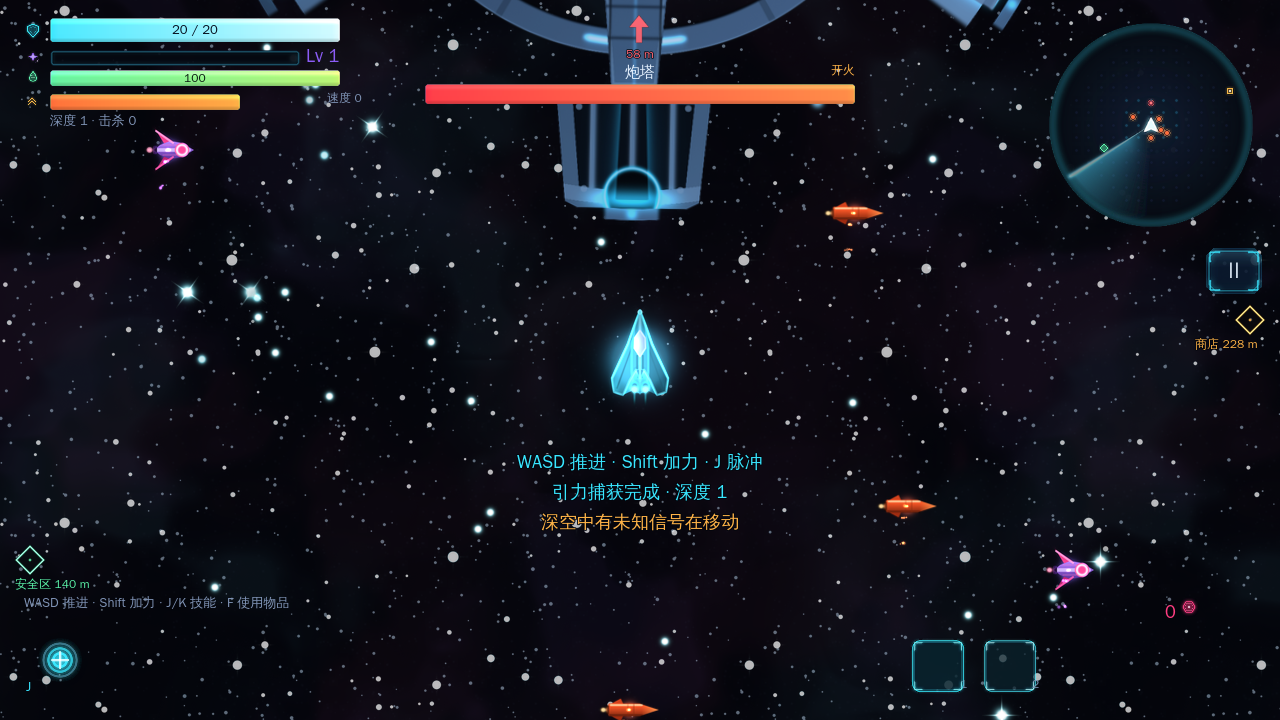
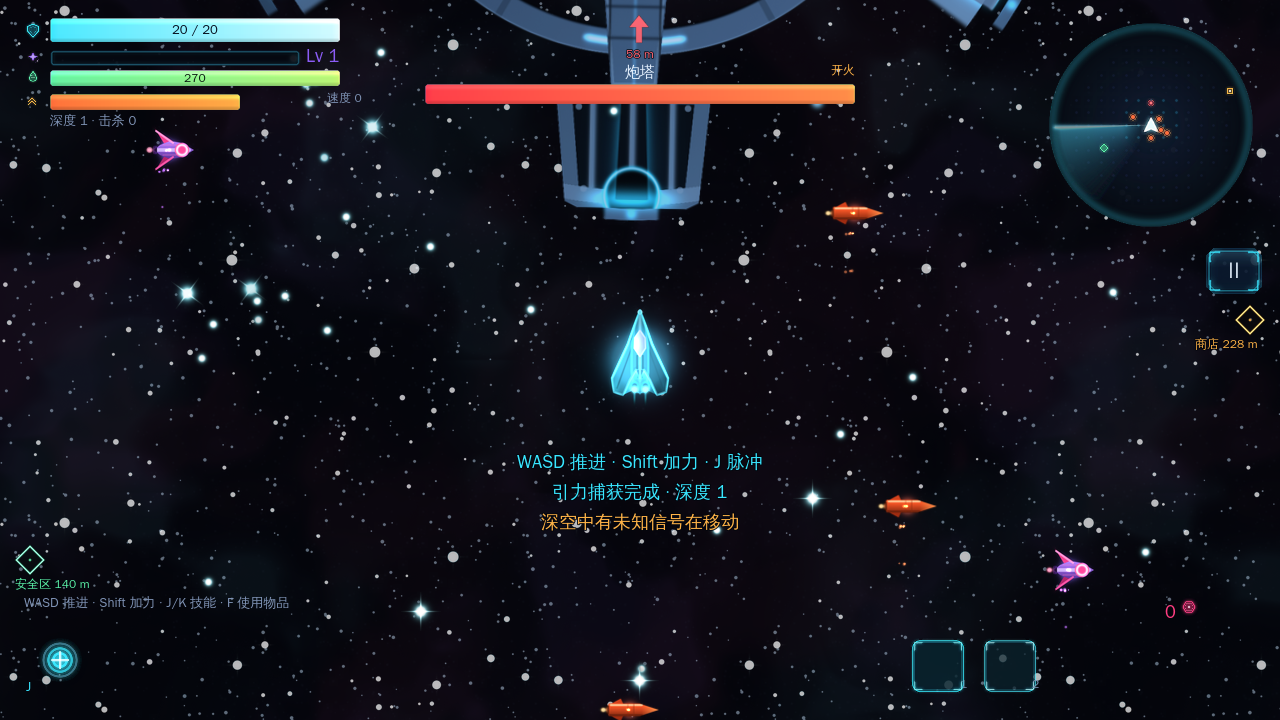
docs(1.4.0): 同步燃料槽 270 的数值表、QA、自测输出与截图

diff --git a/docs/QA.md b/docs/QA.md
@@ -26,7 +26,7 @@ RESULT: 258 checks, 0 failed
 
 覆盖面：
 
-- 物理：太空无阻力（松开推进 2 秒仍保持速度）、引擎极速 150（超过后推进不把惯性压回）、加力 3× 推力 / 192 极速、燃料按实际 Δv 计（到极速后按住推进不耗油，滑行免费）、燃料槽 100（1.4.0 由 500 收紧）、加力槽 6.6s 与 0.7s 后回充（推进中同样回充，耗尽需先松开）、碰撞半径 40 / 12 / 护盾 20
+- 物理：太空无阻力（松开推进 2 秒仍保持速度）、引擎极速 150（超过后推进不把惯性压回）、加力 3× 推力 / 192 极速、燃料按实际 Δv 计（到极速后按住推进不耗油，滑行免费）、燃料槽 270（1.4.0 由 500 收紧后定为 270）、加力槽 6.6s 与 0.7s 后回充（推进中同样回充，耗尽需先松开）、碰撞半径 40 / 12 / 护盾 20
 - 环绕加速：1.9R 切线进入行星引力圈，20 秒内峰值速度 >250、离开后仍 >180；深空滑行 300 速度 2 秒不衰减、不耗油
 - 安全区停靠：以 600 速度进入 R78 触发圈，扩张到 R280 后辅助装置刹停，最终速度 <20 且仍在圈内；以 650 切向掠过也会被捕获井吸进圈内
 - 引力：表面 285、内圈 395、3R 截止、辅助操作装置平衡恒星引力、锁定中的导弹仍受引力弯折（0.6×）
@@ -88,7 +88,7 @@ xvfb-run -a -s "-screen 0 1280x720x24" \
 - 1.4.0 导出后在 Xvfb + llvmpipe 下真实运行，退出码 0；**13 张桌面截图**全部由导出包渲染产生（含 `13_aegis` 偏导母舰正面护盾与 `14_twin` 双子中继站 + 超载水雷），已复制到 `docs/shots/`。
 - 导出包内自测：`./build/linux/EscapeGravity.x86_64 --headless -- --selftest` → `RESULT: 258 checks, 0 failed`。
 - 标题、中文字体、贴图、音频、脚本均从内嵌 PCK 加载；无缺失贴图警告。
-- `build/linux/EscapeGravity.x86_64` = 97,747,000 bytes，ELF x86-64（1.4.0 导出）。
+- `build/linux/EscapeGravity.x86_64` = 97,747,016 bytes，ELF x86-64（1.4.0 导出）。
 - 触屏 20:9 截图另用 `--resolution 2400x1080 -- --touch --shots=...` 生成，取 `04_battle` 作为 `docs/shots/12_touch.png`；触屏按钮仍按“加力 → 技能 → 物品栏”纵向排列，HUD 的改装芯片行在左上角条组下方，不与摇杆/按钮重叠。
 
 ### 2.2 Windows（1.4.0 本地导出验证）

diff --git a/AGENTS.md b/AGENTS.md
@@ -126,7 +126,7 @@ escape-gravity-release/
 - **升级池（1.3.0）**：`fuel_25` 已删除，换成 `eco_cruise`（油耗 ×0.88，叠到 0.5 为止，`ship.fuel_cost_mult` 同步）；燃料上限卡 +40/+80；`slot` 权重背包满 11 / 未满 6；满油时不再出燃料卡这条语义由“删除燃料卡”取代。**别再往池子里加回 `fuel_25`**。
 - **商店三货架（1.3.0）**：`_roll_shop` 固定 3 行——补给位 1~2 代币（护盾补片/备用能源/现场满额维修）、战术道具位 3~4（干扰弹/诱饵弹/紧急充能/引力水雷/加力灌注）、黑市 5~7（必出改装或觉醒）。offer 字典用 `kind`（item/service/mod/awaken）+ `title/desc/rarity/icon/shelf`，`ui._make_shop_row` 只读这些字段。背包满时购买**不再拒买**，直接进入 `State.DESTROY` 丢弃替换，替换后回到商店面板（`destroy_and_take` 里判断 `shop_inside`）。
 
-- **平衡**：初始燃料 **100**（1.4.0 由 500 收紧）；每级经验 **100**（1.4.0 由 20 ×5）；推进 4/s、加力 **4.8/s（1.2×）**（均按实际 Δv），3× 推力，引擎极速 150 / 加力 192，初始槽 **6.6s**；护盾 20。
+- **平衡**：初始燃料 **270**（1.4.0 由 500 收紧后定为 270）；每级经验 **100**（1.4.0 由 20 ×5）；推进 4/s、加力 **4.8/s（1.2×）**（均按实际 Δv），3× 推力，引擎极速 150 / 加力 192，初始槽 **6.6s**；护盾 20。
 - **状态机**：`PLAYING / LEVELUP / SHOP / DESTROY / DEAD / REPLACE_SKILL / AWAKEN_CHOICE`；暂停由 `main.gd` 控制，`run.paused` 冻结模拟。`REPLACE_SKILL` 是技能槽满时选新技能的双槽对比面板，`choose_skill_replace` / `cancel_skill_replace` 负责收尾；`AWAKEN_CHOICE` 是双分支技能（脉冲）的觉醒二选一，`choose_awaken` / `cancel_awaken_choice` 负责收尾，取消同样退还这次升级。
 - **存档**：`user://escape_gravity.cfg` 只保存设置与历史记录；没有中途存档 / 云存档 / meta 解锁。
 

diff --git a/README.md b/README.md
@@ -19,7 +19,7 @@
 本版按试玩反馈调整成长节奏与操作体验，并修掉导弹穿过敌舰的穿模。
 
 - **升级更慢**：每级所需经验 **20 → 100（×5）**。同样一局里升级次数明显减少，升级卡的分量更重。
-- **燃料槽收紧**：上限 **500 → 100**。安全区仍会补满燃料，**备用能源（+60）**、燃料上限卡（+40 / +80）与「节能巡航」的价值随之上来；滑行仍然免费。
+- **燃料槽定为 270**：上限 **500 → 270**。安全区仍会补满燃料，**备用能源（+60）**、燃料上限卡（+40 / +80）与「节能巡航」仍是续航补充；滑行仍然免费。
 - **导弹锁定期改为“绕飞 + 实体外壳”**：锁定中把所有敌舰外壳当成障碍，提前 220px 预测航向、在会擦到外壳时改走切线，并硬性禁止弹体穿进外壳。以前那点偏转方向算反了，玩家用引力快速绕一圈时导弹会直接从敌人正中间穿到另一侧；现在它会贴着外壳滑过去。绕不开的导弹仍会在碰撞结算里真的打在外壳上，脱锁后也照常可以撞回发射者——诱导伤害循环不受影响。
 - **双子节点生成间距 ×2**：双子中继站两座之间的生成/公转间距 **750 → 1500px**，两座不再挤在一起。
 - **PC 手柄键位提示**：`Controls` 记录最近一次真正操作的设备（键盘/鼠标 vs 手柄按键/摇杆），键位提示按设备切换：用手柄时只显示手柄键位（左摇杆、RB、Y/B、X、方向键、Start、A），用键鼠时只显示键盘键位。覆盖 HUD、技能角标、物品提示、暂停/商店/升级/替换/觉醒/丢弃/结算面板。

diff --git a/docs/DESIGN_MAP.md b/docs/DESIGN_MAP.md
@@ -24,7 +24,7 @@
 | 推力 | 380 | `SHIP_ACCEL=380` |
 | 飞船/导弹碰撞半径 | 13 / 7（文档） | 40 / 12：按 `ship.png`（可见 111×82）与 `missile.png`（64×28）实际贴图放大；碰撞体与贴图一致 |
 | 加力 | 3× 推力（1140）、1.28× 极速（192）、槽 6.6s（初始 2.2s 的三倍）、0.7s 后回复、剩余 0.22 才可再启、1.2× 燃料 | `ship.step`：`boost_mult`（升级 ×1.07）、`boost_cap`（升级 ×1.1）、回充 1.6/s；只要不在加力就回充（推进中同样），耗尽后需先松开再点火，迟滞 0.22 |
-| 燃料 | 上限 240；推进 4/s，加力 8/s（文档） | 发行调整为上限 **100**（1.4.0 由 500 收紧）；推进 4/s，加力 4.8/s（1.2×） |
+| 燃料 | 上限 240；推进 4/s，加力 8/s（文档） | 发行调整为上限 **270**（1.4.0 由 500 收紧后按试玩反馈定为 270）；推进 4/s，加力 4.8/s（1.2×） |
 | 引力 | 半径 200~380；M=24e6×(r/290)²；内圈 0.85r 夹紧 395；影响 2r；外侧 15% 平滑 | `gravity_body.gd`；影响半径内计算，外为 0；对飞船/导弹/陨石生效；导弹锁定中也持续受引力（`MISSILE_GRAVITY_SCALE=0.6`） |
 | 天体生成距离 | 1500~3400，出生点在影响圈外 | `galaxy.gd` 区块生成，`_spot_clear` 保证与已有天体 400~900px 间距；初始固定 3 颗风景行星 |
 | 物品栏/技能槽 | 基础 2 格、上限 5；技能 2 槽 | `item_slots`、`skills`；升级卡控制扩容 |
